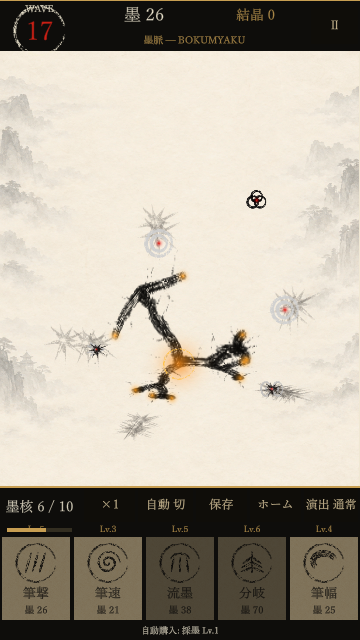
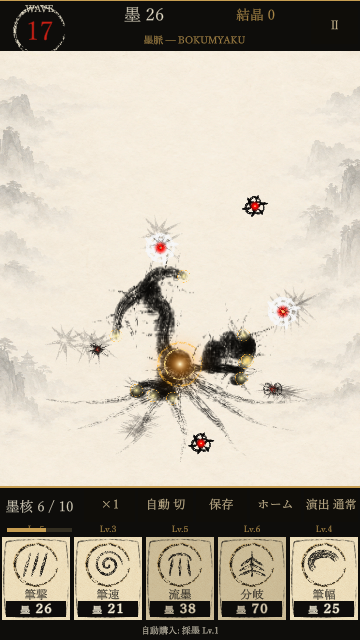
Accent ink attacks with bounded golden impact flashes

diff --git a/UnitySandbox/Assets/BokumyakuPrototype/Presentation/InkBattleWorld.cs b/UnitySandbox/Assets/BokumyakuPrototype/Presentation/InkBattleWorld.cs
@@ -8,7 +8,7 @@ namespace Bokumyaku.Presentation
  public sealed class InkBattleWorld : IDisposable
  {
   sealed class EnemyView { public EnemyState state; public Vector2 previous,current; public double hp; public SpriteRenderer body,eye; public float hit,death; public bool dying,drawn; }
-  sealed class Effect { public SpriteRenderer renderer; public Vector2 a,b; public float age,life,width; public int type; public Color tint; }
+  sealed class Effect { public SpriteRenderer renderer; public Vector2 a,b; public float age,life,width; public int type; public Color tint; public bool flash; }
   readonly GameObject root; readonly Camera camera; readonly Material material; readonly MaterialPropertyBlock block=new MaterialPropertyBlock();
   readonly Dictionary<int,EnemyView> enemies=new Dictionary<int,EnemyView>(); readonly List<int> remove=new List<int>();
   readonly HashSet<int> liveIds=new HashSet<int>(); readonly List<SpriteRenderer> fieldViews=new List<SpriteRenderer>();
@@ -46,7 +46,7 @@ namespace Bokumyaku.Presentation
   Vector2 Project(Vector2 p){float t=.5f-p.y*.48f/512f;t=t<=.5f?t*1.44f:.72f+(t-.5f)*.56f;return new Vector2(p.x/400f*5,(.5f-t)*halfHeight*2);}
   void Properties(SpriteRenderer r,float hit,float dissolve,float wobble,float phase,bool reduced){block.Clear();block.SetFloat("_Hit",hit);block.SetFloat("_Dissolve",dissolve);block.SetFloat("_Wobble",wobble);block.SetFloat("_Phase",phase);block.SetFloat("_ReducedMotion",reduced?1:0);r.SetPropertyBlock(block);}
   void Release(SpriteRenderer r){r.gameObject.SetActive(false);r.SetPropertyBlock(null);r.transform.localRotation=Quaternion.identity;pool.Push(r);}
-  SpriteRenderer Rent(Sprite s,int order){var r=pool.Count>0?pool.Pop():Create(s,order);r.sprite=s;r.sortingOrder=order;r.color=Color.white;r.gameObject.SetActive(true);return r;}
+  SpriteRenderer Rent(Sprite s,int order){var r=pool.Count>0?pool.Pop():Create(s,order);r.sprite=s;r.enabled=true;r.sortingOrder=order;r.color=Color.white;r.gameObject.SetActive(true);return r;}
   public void Reset(RunSimulator run)
   {
    foreach(var e in enemies.Values){Release(e.body);Release(e.eye);}enemies.Clear();foreach(var e in effects)Release(e.renderer);effects.Clear();before.Clear();boundRun=run;freeze=shake=0;Deaths=HitFlashes=EffectsCreated=InterpolatedFrames=0;
@@ -69,16 +69,24 @@ namespace Bokumyaku.Presentation
    }
    remove.Clear();foreach(var pair in enemies)if(!pair.Value.dying&&!liveIds.Contains(pair.Key))remove.Add(pair.Key);
    foreach(int id in remove){Release(enemies[id].body);Release(enemies[id].eye);enemies.Remove(id);}
-   foreach(var hit in run.Attacks)Attack(hit,run);
+   foreach(var hit in run.Attacks)Attack(hit,run,reduced);
   }
 
-  void Spawn(Sprite sprite,Vector2 a,Vector2 b,float life,float width,int type,Color tint)
+  void Spawn(Sprite sprite,Vector2 a,Vector2 b,float life,float width,int type,Color tint,bool flash=false)
   {
-   if(effects.Count>=128){Release(effects[0].renderer);effects.RemoveAt(0);}effects.Add(new Effect{renderer=Rent(sprite,6),a=a,b=b,life=life,width=width,type=type,tint=tint});EffectsCreated++;
+   if(effects.Count>=128){Release(effects[0].renderer);effects.RemoveAt(0);}effects.Add(new Effect{renderer=Rent(sprite,flash?9:6),flash=flash,a=a,b=b,life=life,width=width,type=type,tint=tint});EffectsCreated++;
   }
-  void Attack(AttackEvent hit,RunSimulator run)
+  void Attack(AttackEvent hit,RunSimulator run,bool reduced)
   {
    var a=new Vector2((float)hit.X,(float)hit.Y);var b=new Vector2((float)hit.TargetX,(float)hit.TargetY);var ink=new Color(.025f,.02f,.015f,.95f);
+   if(!reduced)
+   {
+    // Light is a short accent over the ink, not a replacement for the weapon silhouette.
+    Spawn(halo,a,Vector2.zero,.14f,.85f,0,new Color(1,.82f,.35f,.9f),true);
+    Spawn(burst,b,Vector2.zero,.18f,.55f,0,new Color(1,.9f,.5f,.9f),true);
+    if(hit.Weapon==WeaponKind.Point||hit.Weapon==WeaponKind.Pierce||hit.Weapon==WeaponKind.Resonance)
+     Spawn(slash,a,b,.13f,.095f,1,new Color(1,.88f,.46f,.95f),true);
+   }
    switch(hit.Weapon)
    {
     case WeaponKind.Point: Spawn(slash,a,b,.12f,.18f,1,ink);Spawn(burst,b,Vector2.zero,.30f,.65f,0,ink);break;
@@ -123,7 +131,7 @@ namespace Bokumyaku.Presentation
    foreach(int id in remove){Release(enemies[id].body);Release(enemies[id].eye);enemies.Remove(id);}
    for(int i=effects.Count-1;i>=0;i--)
    {
-    var e=effects[i];e.age+=dt;if(e.age>=e.life){Release(e.renderer);effects.RemoveAt(i);continue;}
+    var e=effects[i];e.renderer.enabled=!(reduced&&e.flash);e.age+=dt;if(e.age>=e.life){Release(e.renderer);effects.RemoveAt(i);continue;}
     float t=e.age/e.life;var a=Project(e.a);var color=e.tint;color.a*=1-t;e.renderer.color=color;
     if(e.type==1){var b=Project(e.b);var d=b-a;Size(e.renderer,(a+b)*.5f,d.magnitude/ .75f,e.width);e.renderer.transform.localRotation=Quaternion.Euler(0,0,Mathf.Atan2(d.y,d.x)*Mathf.Rad2Deg);}
     else if(e.type==2){SizeArea(e.renderer,e.a,e.width*(.8f+.2f*t));}
@@ -134,6 +142,7 @@ namespace Bokumyaku.Presentation
   public void Dispose(){foreach(var s in ownedSprites)if(s!=null)UnityEngine.Object.Destroy(s);UnityEngine.Object.Destroy(emberTexture);UnityEngine.Object.Destroy(material);UnityEngine.Object.Destroy(root);}
  }
 }
+
 
 
 

diff --git a/scripts/UnityAutomation~/ReducedFlashCheck.cs b/scripts/UnityAutomation~/ReducedFlashCheck.cs
@@ -1,0 +1,3 @@
+using System;using System.IO;using System.Collections;using System.Reflection;using UnityEngine;using Bokumyaku.Presentation;
+public static class ReducedFlashCheck{
+public static object Run(){var g=UnityEngine.Object.FindFirstObjectByType<BokumyakuGame>();if(!g.SavePath.Contains("ink-qa-"))throw new Exception("Isolated only");var flags=BindingFlags.Instance|BindingFlags.NonPublic;var w=(InkBattleWorld)typeof(BokumyakuGame).GetField("battleWorld",flags).GetValue(g);var surface=typeof(BokumyakuGame).GetField("persistentInk",flags).GetValue(g);var texture=(Texture2D)surface.GetType().GetProperty("Texture").GetValue(surface);var list=(IList)typeof(InkBattleWorld).GetField("effects",flags).GetValue(w);for(int n=0;n<90;n++){w.BeforeTick(g.Run);g.Run.Tick();w.AfterTick(g.Run,false);if(g.Run.Attacks.Count>0)break;}w.Render(g.Run,texture,1,true,true,true,BokumyakuBattleHud.GetBattleViewport());int flashes=0;foreach(var e in list){var t=e.GetType();if(!(bool)t.GetField("flash").GetValue(e))continue;flashes++;if(((SpriteRenderer)t.GetField("renderer").GetValue(e)).enabled)throw new Exception("Flash still enabled");}if(flashes==0)throw new Exception("No flash sample");w.Render(g.Run,texture,1,true,false,true,BokumyakuBattleHud.GetBattleViewport());var result=new{passed=true,flashesSuppressed=flashes};File.WriteAllText(Path.GetFullPath("../docs/evidence/reduced-flash-check.json"),Newtonsoft.Json.JsonConvert.SerializeObject(result));return result;}}

diff --git a/docs/STATE.md b/docs/STATE.md
@@ -8,6 +8,7 @@
 - Runtime/シミュレーション/経済/保存は未変更。研究価格500案はstashに保護。長期曲線凍結・分割計画のみ。
 
 ## 直近の結果
+- 発射/着弾に短い金の光を追加。6武器の短時間Playを完了、貫筆/円相画像を目視。演出軽減で既存閃光6個の非表示を確認（reduced-flash-check.json）。検証区分: 描画限定。
 - 検証区分: 今回は描画限定（コンパイル/隔離Play/画面/突進方向）。実機・新Windowsビルドなし。
 - 赤い敵核を白い中心/赤い滲みの共有スプライトへ。突進型を移動方向へ回転。Wave17の1体で投影後の移動方向と回転が一致。QAはヒットストップを除外。enemy-facing.json / enemy-ember-battle.png。
 - 直近の美術: 太い湾曲枝/下へ張る装飾根/敵の墨塊と棘/金輪/紙札筆縁と価格17pt。5札購入と不足拒否6/6。詳細RENDER_REFRESH.md。
@@ -19,3 +20,4 @@
 1. 参考WAVE37の美術には未達。戦場の構図・背景のコントラスト、攻撃演出の迫力、密集時の判読性を改善。
 2. 実機タップ/ノッチ、日本語フォント/CopyTexture対応、初回シェーダー待機を確認。撃破跡は周回内表示のみ。
 3. 音の聴感と初週バランスは描画の後。商品完成条件はPRODUCT_COMPLETION.md。
+

diff --git a/docs/RENDER_REFRESH.md b/docs/RENDER_REFRESH.md
@@ -40,3 +40,6 @@ ResetInk時に一度だけ7本の先細りの根をSUMI描画。攻撃枝/判定
 
 ### 敵核と突進方向
 敵核を32px共有スプライトで白中心/赤い滲みに変更し破棄管理を追加。突進型の描画回転を投影後の移動方向に合わせる。Wave17の1体で向き一致、enemy-facing.json/pngを記録。最初の判定はヒットストップ静止を誤検出、QAで静止を除外して再確認。AI/経済/保存は未変更。
+
+### 攻撃の金光
+発射点/着弾点と直線系3武器へ短い金の光を追加。既存の墨の形を保持、同時128エフェクト上限内。演出軽減時は生成せず、既存閃光も即非表示。6武器の短時間Play記録を更新し貫筆/円相画面を目視。ReducedFlashCheckで6閃光すべて非表示を確認。実機性能や全武器の美術完成の合格ではない。
